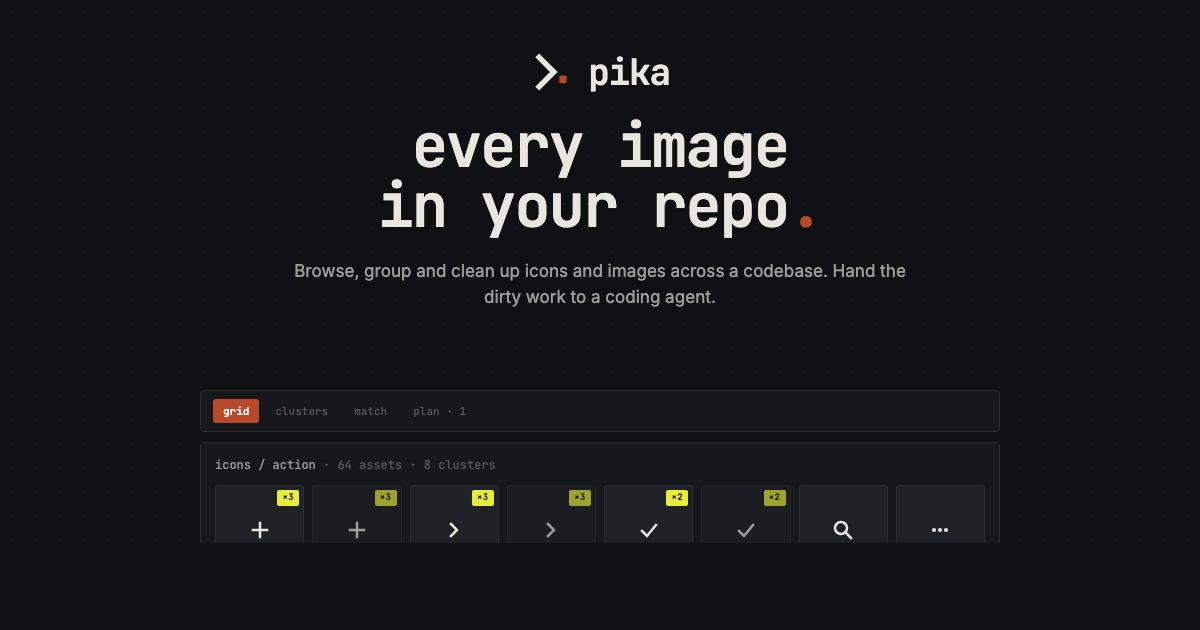
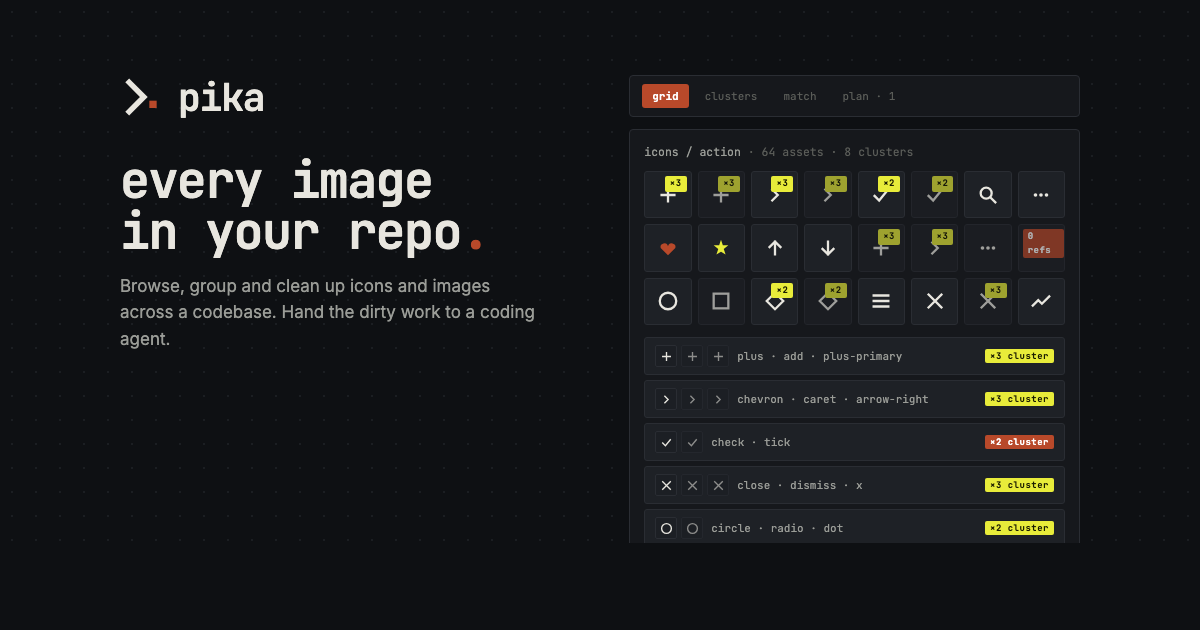
docs(brand): full-bleed social preview, drop bottom safe area
Two-column layout fills the canvas. Right column shows toolbar +
3 tile rows + 5 cluster rows; the last cluster ("circle · radio
· dot") visibly bleeds past the canvas bottom. Twitter's URL pill
covering the bleed edge reads as intentional, not a layout fail.

diff --git a/docs/social-preview.html b/docs/social-preview.html
@@ -19,6 +19,7 @@
     --rust:     #b8492a;
     --citron:   #e8ec3a;
     --citronInk:#1a1c00;
+    --moss:     #3f6b3b;
   }
   * { box-sizing: border-box; margin: 0; padding: 0; }
   html, body {
@@ -27,6 +28,7 @@
     font-family: "Inter", system-ui, sans-serif;
     color: var(--ink);
   }
+  .mono { font-family: "JetBrains Mono", ui-monospace, monospace; }
 
   .canvas {
     position: relative; width: 1200px; height: 630px;
@@ -38,47 +40,41 @@
     background-size: 24px 24px; opacity: 0.9;
   }
 
-  /* Text block — sits in upper half, comfortably inside the mobile crop safe zone */
-  .text {
+  /* Two-column safe area: 75px top, 120px sides (mobile crop), no bottom
+     safe area — content bleeds to canvas edge. URL caption pill on Twitter
+     will cover the bottom slice of the asset grid; that's intentional. */
+  .safe {
     position: absolute;
-    top: 50px;
-    left: 240px; right: 240px;
-    display: flex; flex-direction: column;
-    align-items: center;
-    gap: 22px; z-index: 2;
-    text-align: center;
+    top: 75px; left: 120px; right: 120px; bottom: 0;
+    display: grid; grid-template-columns: 1.05fr 1fr;
+    gap: 36px; z-index: 1;
   }
+
+  /* ── Left column ─────────────────────────────────────────────────────── */
+  .left { display: flex; flex-direction: column; gap: 36px; }
 
   .wordmark { display: flex; align-items: center; gap: 14px; }
   .wordmark svg { display: block; }
   .wordmark .name {
     font-family: "JetBrains Mono", ui-monospace, monospace;
-    font-size: 36px; font-weight: 600;
+    font-size: 38px; font-weight: 600;
     letter-spacing: -1.2px; color: var(--ink); line-height: 1;
   }
 
   .headline {
     font-family: "JetBrains Mono", ui-monospace, monospace;
-    font-size: 60px; font-weight: 600;
-    letter-spacing: -1.8px; line-height: 1.0; color: var(--ink);
+    font-size: 50px; font-weight: 600;
+    letter-spacing: -1.6px; line-height: 1.02; color: var(--ink);
   }
   .headline .dot { color: var(--rust); }
 
   .subhead {
-    font-size: 17px; color: var(--ink2); line-height: 1.55;
-    max-width: 620px; font-weight: 450;
+    font-size: 17px; color: var(--ink2); line-height: 1.55; max-width: 420px;
+    margin-top: 16px;
   }
 
-  /* App preview illustration — anchored from top, bleeds off bottom edge.
-     The grid-card has no fixed height; rows fill it and the last row visibly
-     extends past the canvas bottom. */
-  .preview {
-    position: absolute;
-    left: 200px; right: 200px;
-    top: 390px;
-    z-index: 1;
-    display: flex; flex-direction: column; gap: 10px;
-  }
+  /* ── Right column ────────────────────────────────────────────────────── */
+  .right { display: flex; flex-direction: column; gap: 12px; min-width: 0; }
 
   .toolbar {
     display: flex; gap: 6px; padding: 8px 12px;
@@ -93,25 +89,27 @@
 
   .grid-card {
     background: var(--pitchMid); border: 1px solid var(--rule); border-radius: 4px;
-    padding: 14px;
-    display: flex; flex-direction: column; gap: 12px;
+    padding: 14px; display: flex; flex-direction: column; gap: 12px;
   }
   .grid-header {
     font-family: "JetBrains Mono", ui-monospace, monospace;
-    font-size: 12px; color: var(--ink2);
+    font-size: 11.5px; color: var(--ink2);
   }
   .grid-header .muted { color: var(--ink3); }
 
   .tiles {
-    display: grid; grid-template-columns: repeat(8, 1fr); gap: 8px;
+    display: grid; grid-template-columns: repeat(8, 1fr); gap: 6px;
   }
   .tile {
     background: var(--pitchHi); border: 1px solid var(--rule);
-    border-radius: 3px; padding: 10px; position: relative;
+    border-radius: 3px; padding: 8px; position: relative;
+    display: flex; flex-direction: column; gap: 5px;
     aspect-ratio: 1;
-    display: flex; align-items: center; justify-content: center;
   }
   .tile.dim { opacity: 0.65; }
+  .tile .glyph {
+    flex: 1; display: flex; align-items: center; justify-content: center;
+  }
   .tile .tag {
     position: absolute; top: 4px; right: 4px;
     font-family: "JetBrains Mono", ui-monospace, monospace;
@@ -119,6 +117,35 @@
     padding: 1px 5px; border-radius: 2px; line-height: 1.5;
     background: var(--citron); color: var(--citronInk);
   }
+  .tile .tag.unused {
+    left: 4px; right: auto; background: var(--rust); color: #fff;
+  }
+
+  .clusters { display: flex; flex-direction: column; gap: 5px; }
+  .cluster {
+    display: flex; align-items: center; gap: 8px;
+    background: var(--pitchHi); border: 1px solid var(--rule);
+    border-radius: 3px; padding: 7px 10px;
+  }
+  .cluster .glyphs { display: flex; gap: 4px; }
+  .cluster .glyphs .g {
+    width: 22px; height: 22px; background: var(--grid);
+    border-radius: 2px; border: 1px solid var(--rule);
+    display: flex; align-items: center; justify-content: center;
+  }
+  .cluster .glyphs .g:nth-child(2) { opacity: 0.55; }
+  .cluster .glyphs .g:nth-child(3) { opacity: 0.55; }
+  .cluster .label {
+    font-family: "JetBrains Mono", ui-monospace, monospace;
+    font-size: 11px; color: var(--ink2); flex: 1;
+  }
+  .cluster .ctag {
+    font-family: "JetBrains Mono", ui-monospace, monospace;
+    font-size: 9px; font-weight: 700; letter-spacing: 0.5px;
+    padding: 1px 5px; border-radius: 2px;
+    background: var(--citron); color: var(--citronInk);
+  }
+  .cluster .ctag.rust { background: var(--rust); color: #fff; }
 </style>
 </head>
 <body>
@@ -126,90 +153,171 @@
 <div class="canvas">
   <div class="dotgrid"></div>
 
-  <!-- TEXT (upper half, safe area) -->
-  <div class="text">
-    <div class="wordmark">
-      <svg width="44" height="44" viewBox="0 0 24 24" fill="none">
-        <path d="M5 4 L13 12 L5 20" stroke="#e8e6df" stroke-width="3" stroke-linecap="square" stroke-linejoin="miter" fill="none"/>
-        <rect x="16" y="14" width="4" height="4" fill="#b8492a"/>
-      </svg>
-      <span class="name">pika</span>
+  <div class="safe">
+    <!-- LEFT -->
+    <div class="left">
+      <div class="wordmark">
+        <svg width="44" height="44" viewBox="0 0 24 24" fill="none">
+          <path d="M5 4 L13 12 L5 20" stroke="#e8e6df" stroke-width="3" stroke-linecap="square" stroke-linejoin="miter" fill="none"/>
+          <rect x="16" y="14" width="4" height="4" fill="#b8492a"/>
+        </svg>
+        <span class="name">pika</span>
+      </div>
+
+      <div>
+        <div class="headline">every image<br/>in your repo<span class="dot">.</span></div>
+        <div class="subhead">Browse, group and clean up icons and images across a codebase. Hand the dirty work to a coding agent.</div>
+      </div>
     </div>
 
-    <div class="headline">every image<br/>in your repo<span class="dot">.</span></div>
+    <!-- RIGHT -->
+    <div class="right">
+      <div class="toolbar mono">
+        <span class="active">grid</span>
+        <span>clusters</span>
+        <span>match</span>
+        <span>plan · 1</span>
+      </div>
 
-    <div class="subhead">Browse, group and clean up icons and images across a codebase. Hand the dirty work to a coding agent.</div>
-  </div>
+      <div class="grid-card">
+        <div class="grid-header">icons / action <span class="muted">· 64 assets · 8 clusters</span></div>
 
-  <!-- ILLUSTRATION (overflowing off the bottom — decorative) -->
-  <div class="preview">
-    <div class="toolbar">
-      <span class="active">grid</span>
-      <span>clusters</span>
-      <span>match</span>
-      <span>plan · 1</span>
-    </div>
+        <div class="tiles">
+          <!-- row 1 -->
+          <div class="tile">
+            <div class="glyph"><svg width="22" height="22" viewBox="0 0 24 24"><path d="M12 5V19M5 12H19" stroke="#e8e6df" stroke-width="2.5" stroke-linecap="square"/></svg></div>
+            <div class="tag">×3</div>
+          </div>
+          <div class="tile dim">
+            <div class="glyph"><svg width="22" height="22" viewBox="0 0 24 24"><path d="M12 5V19M5 12H19" stroke="#e8e6df" stroke-width="2.5" stroke-linecap="square"/></svg></div>
+            <div class="tag">×3</div>
+          </div>
+          <div class="tile">
+            <div class="glyph"><svg width="22" height="22" viewBox="0 0 24 24" fill="none"><path d="M9 6L15 12L9 18" stroke="#e8e6df" stroke-width="2.5" stroke-linecap="square" stroke-linejoin="miter"/></svg></div>
+            <div class="tag">×3</div>
+          </div>
+          <div class="tile dim">
+            <div class="glyph"><svg width="22" height="22" viewBox="0 0 24 24" fill="none"><path d="M9 6L15 12L9 18" stroke="#e8e6df" stroke-width="2.5" stroke-linecap="square" stroke-linejoin="miter"/></svg></div>
+            <div class="tag">×3</div>
+          </div>
+          <div class="tile">
+            <div class="glyph"><svg width="22" height="22" viewBox="0 0 24 24" fill="none"><path d="M5 13L10 18L19 7" stroke="#e8e6df" stroke-width="2.5" stroke-linecap="square"/></svg></div>
+            <div class="tag">×2</div>
+          </div>
+          <div class="tile dim">
+            <div class="glyph"><svg width="22" height="22" viewBox="0 0 24 24" fill="none"><path d="M5 13L10 18L19 7" stroke="#e8e6df" stroke-width="2.5" stroke-linecap="square"/></svg></div>
+            <div class="tag">×2</div>
+          </div>
+          <div class="tile">
+            <div class="glyph"><svg width="22" height="22" viewBox="0 0 24 24" fill="none"><circle cx="10" cy="10" r="6" stroke="#e8e6df" stroke-width="2.5"/><path d="M15 15L20 20" stroke="#e8e6df" stroke-width="2.5" stroke-linecap="square"/></svg></div>
+          </div>
+          <div class="tile">
+            <div class="glyph"><svg width="22" height="22" viewBox="0 0 24 24"><g fill="#e8e6df"><circle cx="6" cy="12" r="2"/><circle cx="12" cy="12" r="2"/><circle cx="18" cy="12" r="2"/></g></svg></div>
+          </div>
 
-    <div class="grid-card">
-      <div class="grid-header">icons / action <span class="muted">· 64 assets · 8 clusters</span></div>
+          <!-- row 2 -->
+          <div class="tile">
+            <div class="glyph"><svg width="22" height="22" viewBox="0 0 24 24" fill="#b8492a"><path d="M12 20L4 12a4 4 0 0 1 8-2 4 4 0 0 1 8 2z"/></svg></div>
+          </div>
+          <div class="tile">
+            <div class="glyph"><svg width="22" height="22" viewBox="0 0 24 24" fill="#e8ec3a"><path d="M12 3L14 9L20 9L15 13L17 19L12 16L7 19L9 13L4 9L10 9Z"/></svg></div>
+          </div>
+          <div class="tile">
+            <div class="glyph"><svg width="22" height="22" viewBox="0 0 24 24" fill="none" style="transform: rotate(-90deg)"><path d="M5 12H19M13 6L19 12L13 18" stroke="#e8e6df" stroke-width="2.5" stroke-linecap="square" stroke-linejoin="miter"/></svg></div>
+          </div>
+          <div class="tile">
+            <div class="glyph"><svg width="22" height="22" viewBox="0 0 24 24" fill="none" style="transform: rotate(90deg)"><path d="M5 12H19M13 6L19 12L13 18" stroke="#e8e6df" stroke-width="2.5" stroke-linecap="square" stroke-linejoin="miter"/></svg></div>
+          </div>
+          <div class="tile dim">
+            <div class="glyph"><svg width="22" height="22" viewBox="0 0 24 24"><path d="M12 5V19M5 12H19" stroke="#e8e6df" stroke-width="2.5" stroke-linecap="square"/></svg></div>
+            <div class="tag">×3</div>
+          </div>
+          <div class="tile dim">
+            <div class="glyph"><svg width="22" height="22" viewBox="0 0 24 24" fill="none"><path d="M9 6L15 12L9 18" stroke="#e8e6df" stroke-width="2.5" stroke-linecap="square" stroke-linejoin="miter"/></svg></div>
+            <div class="tag">×3</div>
+          </div>
+          <div class="tile dim">
+            <div class="glyph"><svg width="22" height="22" viewBox="0 0 24 24"><g fill="#e8e6df"><circle cx="6" cy="12" r="2"/><circle cx="12" cy="12" r="2"/><circle cx="18" cy="12" r="2"/></g></svg></div>
+          </div>
+          <div class="tile dim">
+            <div class="glyph"><svg width="22" height="22" viewBox="0 0 24 24" fill="none"><circle cx="10" cy="10" r="6" stroke="#e8e6df" stroke-width="2.5"/><path d="M15 15L20 20" stroke="#e8e6df" stroke-width="2.5" stroke-linecap="square"/></svg></div>
+            <div class="tag unused">0 refs</div>
+          </div>
 
-      <div class="tiles">
-        <div class="tile">
-          <svg width="24" height="24" viewBox="0 0 24 24"><path d="M12 5V19M5 12H19" stroke="#e8e6df" stroke-width="2.5" stroke-linecap="square"/></svg>
-          <div class="tag">×3</div>
-        </div>
-        <div class="tile dim">
-          <svg width="24" height="24" viewBox="0 0 24 24"><path d="M12 5V19M5 12H19" stroke="#e8e6df" stroke-width="2.5" stroke-linecap="square"/></svg>
-          <div class="tag">×3</div>
-        </div>
-        <div class="tile">
-          <svg width="24" height="24" viewBox="0 0 24 24" fill="none"><path d="M9 6L15 12L9 18" stroke="#e8e6df" stroke-width="2.5" stroke-linecap="square" stroke-linejoin="miter"/></svg>
-          <div class="tag">×3</div>
-        </div>
-        <div class="tile dim">
-          <svg width="24" height="24" viewBox="0 0 24 24" fill="none"><path d="M9 6L15 12L9 18" stroke="#e8e6df" stroke-width="2.5" stroke-linecap="square" stroke-linejoin="miter"/></svg>
-          <div class="tag">×3</div>
-        </div>
-        <div class="tile">
-          <svg width="24" height="24" viewBox="0 0 24 24" fill="none"><path d="M5 13L10 18L19 7" stroke="#e8e6df" stroke-width="2.5" stroke-linecap="square"/></svg>
-          <div class="tag">×2</div>
-        </div>
-        <div class="tile dim">
-          <svg width="24" height="24" viewBox="0 0 24 24" fill="none"><path d="M5 13L10 18L19 7" stroke="#e8e6df" stroke-width="2.5" stroke-linecap="square"/></svg>
-          <div class="tag">×2</div>
-        </div>
-        <div class="tile">
-          <svg width="24" height="24" viewBox="0 0 24 24" fill="none"><circle cx="10" cy="10" r="6" stroke="#e8e6df" stroke-width="2.5"/><path d="M15 15L20 20" stroke="#e8e6df" stroke-width="2.5" stroke-linecap="square"/></svg>
-        </div>
-        <div class="tile">
-          <svg width="24" height="24" viewBox="0 0 24 24"><g fill="#e8e6df"><circle cx="6" cy="12" r="2"/><circle cx="12" cy="12" r="2"/><circle cx="18" cy="12" r="2"/></g></svg>
+          <!-- row 3 -->
+          <div class="tile">
+            <div class="glyph"><svg width="22" height="22" viewBox="0 0 24 24" fill="none"><circle cx="12" cy="12" r="9" stroke="#e8e6df" stroke-width="2.5"/></svg></div>
+          </div>
+          <div class="tile dim">
+            <div class="glyph"><svg width="22" height="22" viewBox="0 0 24 24" fill="none"><rect x="4" y="4" width="16" height="16" stroke="#e8e6df" stroke-width="2.5"/></svg></div>
+          </div>
+          <div class="tile">
+            <div class="glyph"><svg width="22" height="22" viewBox="0 0 24 24" fill="none"><path d="M12 3L21 12L12 21L3 12Z" stroke="#e8e6df" stroke-width="2.5" stroke-linejoin="miter"/></svg></div>
+            <div class="tag">×2</div>
+          </div>
+          <div class="tile dim">
+            <div class="glyph"><svg width="22" height="22" viewBox="0 0 24 24" fill="none"><path d="M12 3L21 12L12 21L3 12Z" stroke="#e8e6df" stroke-width="2.5" stroke-linejoin="miter"/></svg></div>
+            <div class="tag">×2</div>
+          </div>
+          <div class="tile">
+            <div class="glyph"><svg width="22" height="22" viewBox="0 0 24 24" fill="none"><path d="M4 6H20M4 12H20M4 18H20" stroke="#e8e6df" stroke-width="2.5" stroke-linecap="square"/></svg></div>
+          </div>
+          <div class="tile">
+            <div class="glyph"><svg width="22" height="22" viewBox="0 0 24 24" fill="none"><path d="M5 5L19 19M19 5L5 19" stroke="#e8e6df" stroke-width="2.5" stroke-linecap="square"/></svg></div>
+          </div>
+          <div class="tile dim">
+            <div class="glyph"><svg width="22" height="22" viewBox="0 0 24 24" fill="none"><path d="M5 5L19 19M19 5L5 19" stroke="#e8e6df" stroke-width="2.5" stroke-linecap="square"/></svg></div>
+            <div class="tag">×3</div>
+          </div>
+          <div class="tile">
+            <div class="glyph"><svg width="22" height="22" viewBox="0 0 24 24" fill="none"><path d="M3 17L9 11L13 15L21 7" stroke="#e8e6df" stroke-width="2.5" stroke-linecap="square" stroke-linejoin="miter"/></svg></div>
+          </div>
         </div>
 
-        <div class="tile">
-          <svg width="24" height="24" viewBox="0 0 24 24" fill="#b8492a"><path d="M12 20L4 12a4 4 0 0 1 8-2 4 4 0 0 1 8 2z"/></svg>
-        </div>
-        <div class="tile">
-          <svg width="24" height="24" viewBox="0 0 24 24" fill="#e8ec3a"><path d="M12 3L14 9L20 9L15 13L17 19L12 16L7 19L9 13L4 9L10 9Z"/></svg>
-        </div>
-        <div class="tile">
-          <svg width="24" height="24" viewBox="0 0 24 24" fill="none" style="transform: rotate(-90deg)"><path d="M5 12H19M13 6L19 12L13 18" stroke="#e8e6df" stroke-width="2.5" stroke-linecap="square" stroke-linejoin="miter"/></svg>
-        </div>
-        <div class="tile">
-          <svg width="24" height="24" viewBox="0 0 24 24" fill="none" style="transform: rotate(90deg)"><path d="M5 12H19M13 6L19 12L13 18" stroke="#e8e6df" stroke-width="2.5" stroke-linecap="square" stroke-linejoin="miter"/></svg>
-        </div>
-        <div class="tile dim">
-          <svg width="24" height="24" viewBox="0 0 24 24"><path d="M12 5V19M5 12H19" stroke="#e8e6df" stroke-width="2.5" stroke-linecap="square"/></svg>
-          <div class="tag">×3</div>
-        </div>
-        <div class="tile dim">
-          <svg width="24" height="24" viewBox="0 0 24 24" fill="none"><path d="M9 6L15 12L9 18" stroke="#e8e6df" stroke-width="2.5" stroke-linecap="square" stroke-linejoin="miter"/></svg>
-          <div class="tag">×3</div>
-        </div>
-        <div class="tile dim">
-          <svg width="24" height="24" viewBox="0 0 24 24"><g fill="#e8e6df"><circle cx="6" cy="12" r="2"/><circle cx="12" cy="12" r="2"/><circle cx="18" cy="12" r="2"/></g></svg>
-        </div>
-        <div class="tile dim">
-          <svg width="24" height="24" viewBox="0 0 24 24" fill="none"><circle cx="10" cy="10" r="6" stroke="#e8e6df" stroke-width="2.5"/><path d="M15 15L20 20" stroke="#e8e6df" stroke-width="2.5" stroke-linecap="square"/></svg>
+        <div class="clusters">
+          <div class="cluster">
+            <div class="glyphs">
+              <div class="g"><svg width="13" height="13" viewBox="0 0 24 24"><path d="M12 5V19M5 12H19" stroke="#e8e6df" stroke-width="2.5" stroke-linecap="square"/></svg></div>
+              <div class="g"><svg width="13" height="13" viewBox="0 0 24 24"><path d="M12 5V19M5 12H19" stroke="#e8e6df" stroke-width="2.5" stroke-linecap="square"/></svg></div>
+              <div class="g"><svg width="13" height="13" viewBox="0 0 24 24"><path d="M12 5V19M5 12H19" stroke="#e8e6df" stroke-width="2.5" stroke-linecap="square"/></svg></div>
+            </div>
+            <div class="label">plus · add · plus-primary</div>
+            <div class="ctag">×3 cluster</div>
+          </div>
+          <div class="cluster">
+            <div class="glyphs">
+              <div class="g"><svg width="13" height="13" viewBox="0 0 24 24" fill="none"><path d="M9 6L15 12L9 18" stroke="#e8e6df" stroke-width="2.5" stroke-linecap="square" stroke-linejoin="miter"/></svg></div>
+              <div class="g"><svg width="13" height="13" viewBox="0 0 24 24" fill="none"><path d="M9 6L15 12L9 18" stroke="#e8e6df" stroke-width="2.5" stroke-linecap="square" stroke-linejoin="miter"/></svg></div>
+              <div class="g"><svg width="13" height="13" viewBox="0 0 24 24" fill="none"><path d="M9 6L15 12L9 18" stroke="#e8e6df" stroke-width="2.5" stroke-linecap="square" stroke-linejoin="miter"/></svg></div>
+            </div>
+            <div class="label">chevron · caret · arrow-right</div>
+            <div class="ctag">×3 cluster</div>
+          </div>
+          <div class="cluster">
+            <div class="glyphs">
+              <div class="g"><svg width="13" height="13" viewBox="0 0 24 24" fill="none"><path d="M5 13L10 18L19 7" stroke="#e8e6df" stroke-width="2.5" stroke-linecap="square"/></svg></div>
+              <div class="g"><svg width="13" height="13" viewBox="0 0 24 24" fill="none"><path d="M5 13L10 18L19 7" stroke="#e8e6df" stroke-width="2.5" stroke-linecap="square"/></svg></div>
+            </div>
+            <div class="label">check · tick</div>
+            <div class="ctag rust">×2 cluster</div>
+          </div>
+          <div class="cluster">
+            <div class="glyphs">
+              <div class="g"><svg width="13" height="13" viewBox="0 0 24 24" fill="none"><path d="M5 5L19 19M19 5L5 19" stroke="#e8e6df" stroke-width="2.5" stroke-linecap="square"/></svg></div>
+              <div class="g"><svg width="13" height="13" viewBox="0 0 24 24" fill="none"><path d="M5 5L19 19M19 5L5 19" stroke="#e8e6df" stroke-width="2.5" stroke-linecap="square"/></svg></div>
+              <div class="g"><svg width="13" height="13" viewBox="0 0 24 24" fill="none"><path d="M5 5L19 19M19 5L5 19" stroke="#e8e6df" stroke-width="2.5" stroke-linecap="square"/></svg></div>
+            </div>
+            <div class="label">close · dismiss · x</div>
+            <div class="ctag">×3 cluster</div>
+          </div>
+          <div class="cluster">
+            <div class="glyphs">
+              <div class="g"><svg width="13" height="13" viewBox="0 0 24 24" fill="none"><circle cx="12" cy="12" r="9" stroke="#e8e6df" stroke-width="2.5"/></svg></div>
+              <div class="g"><svg width="13" height="13" viewBox="0 0 24 24" fill="none"><circle cx="12" cy="12" r="9" stroke="#e8e6df" stroke-width="2.5"/></svg></div>
+            </div>
+            <div class="label">circle · radio · dot</div>
+            <div class="ctag">×2 cluster</div>
+          </div>
         </div>
       </div>
     </div>